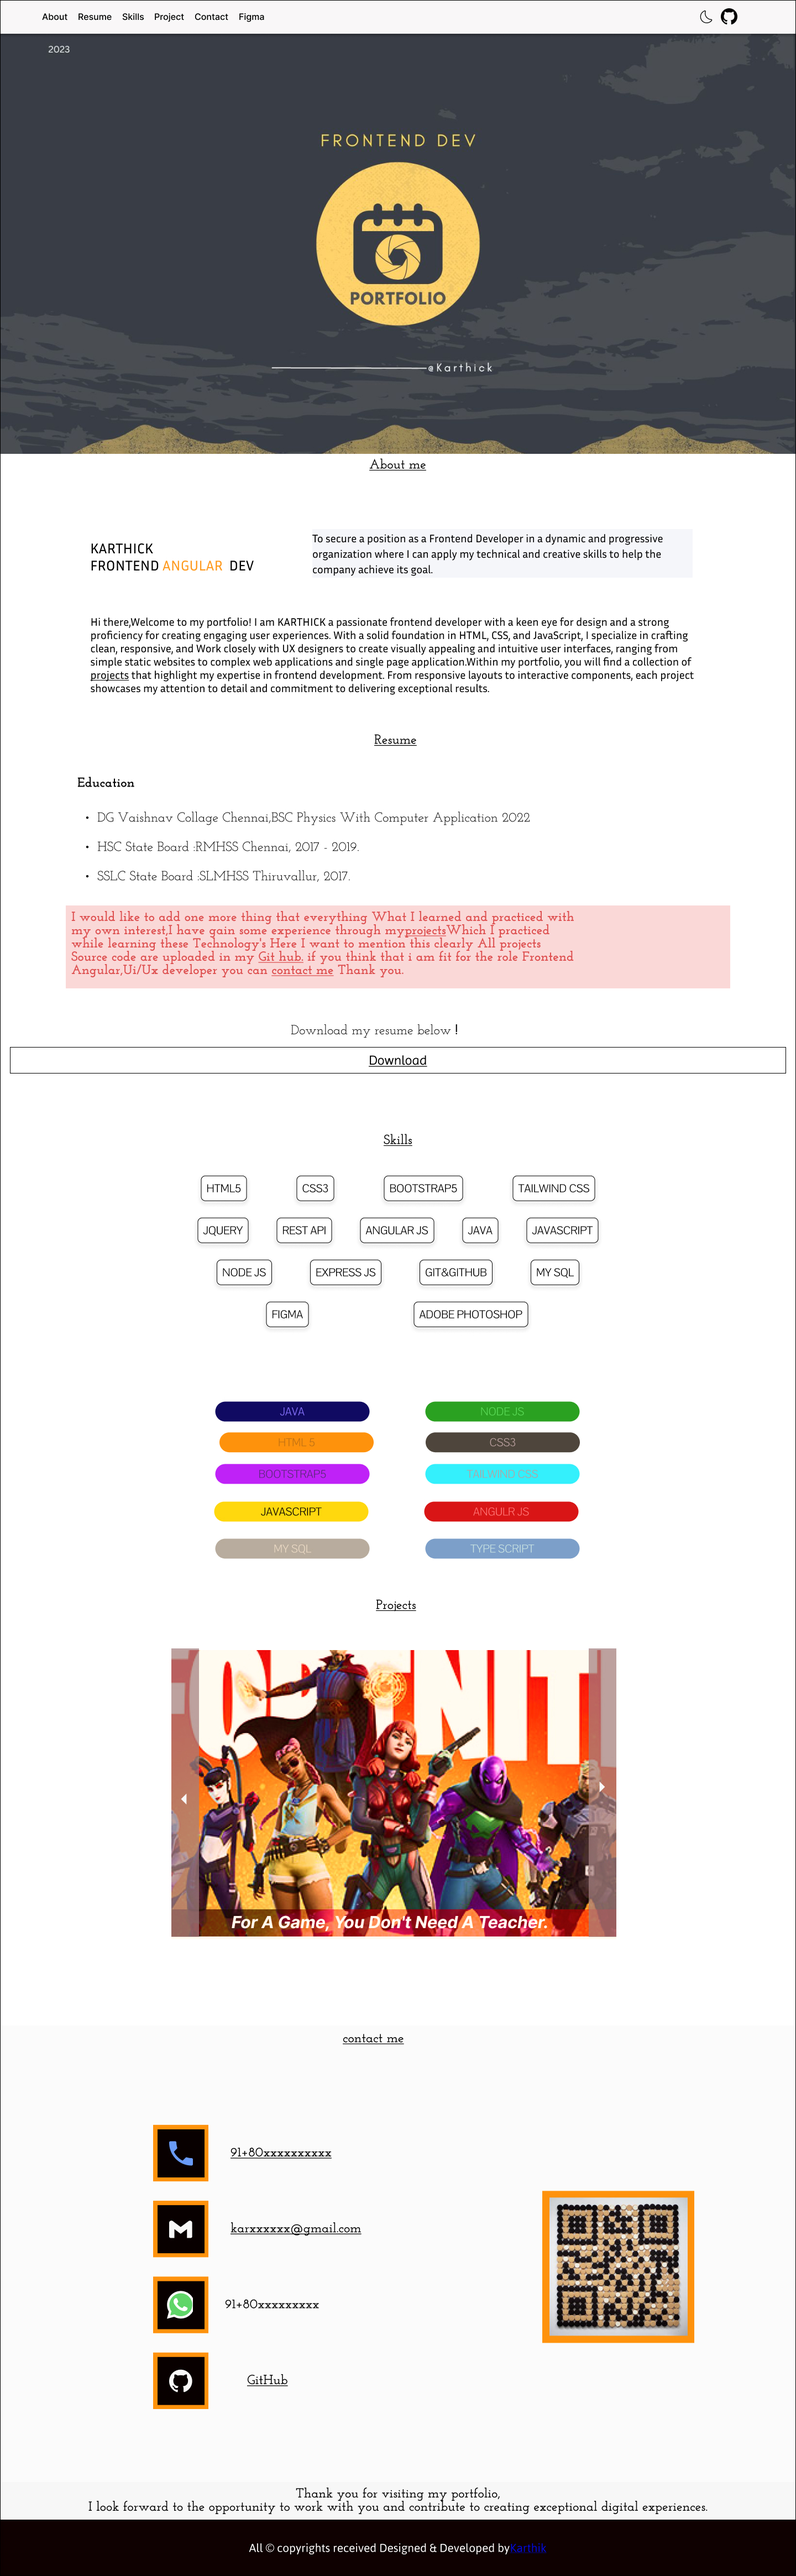
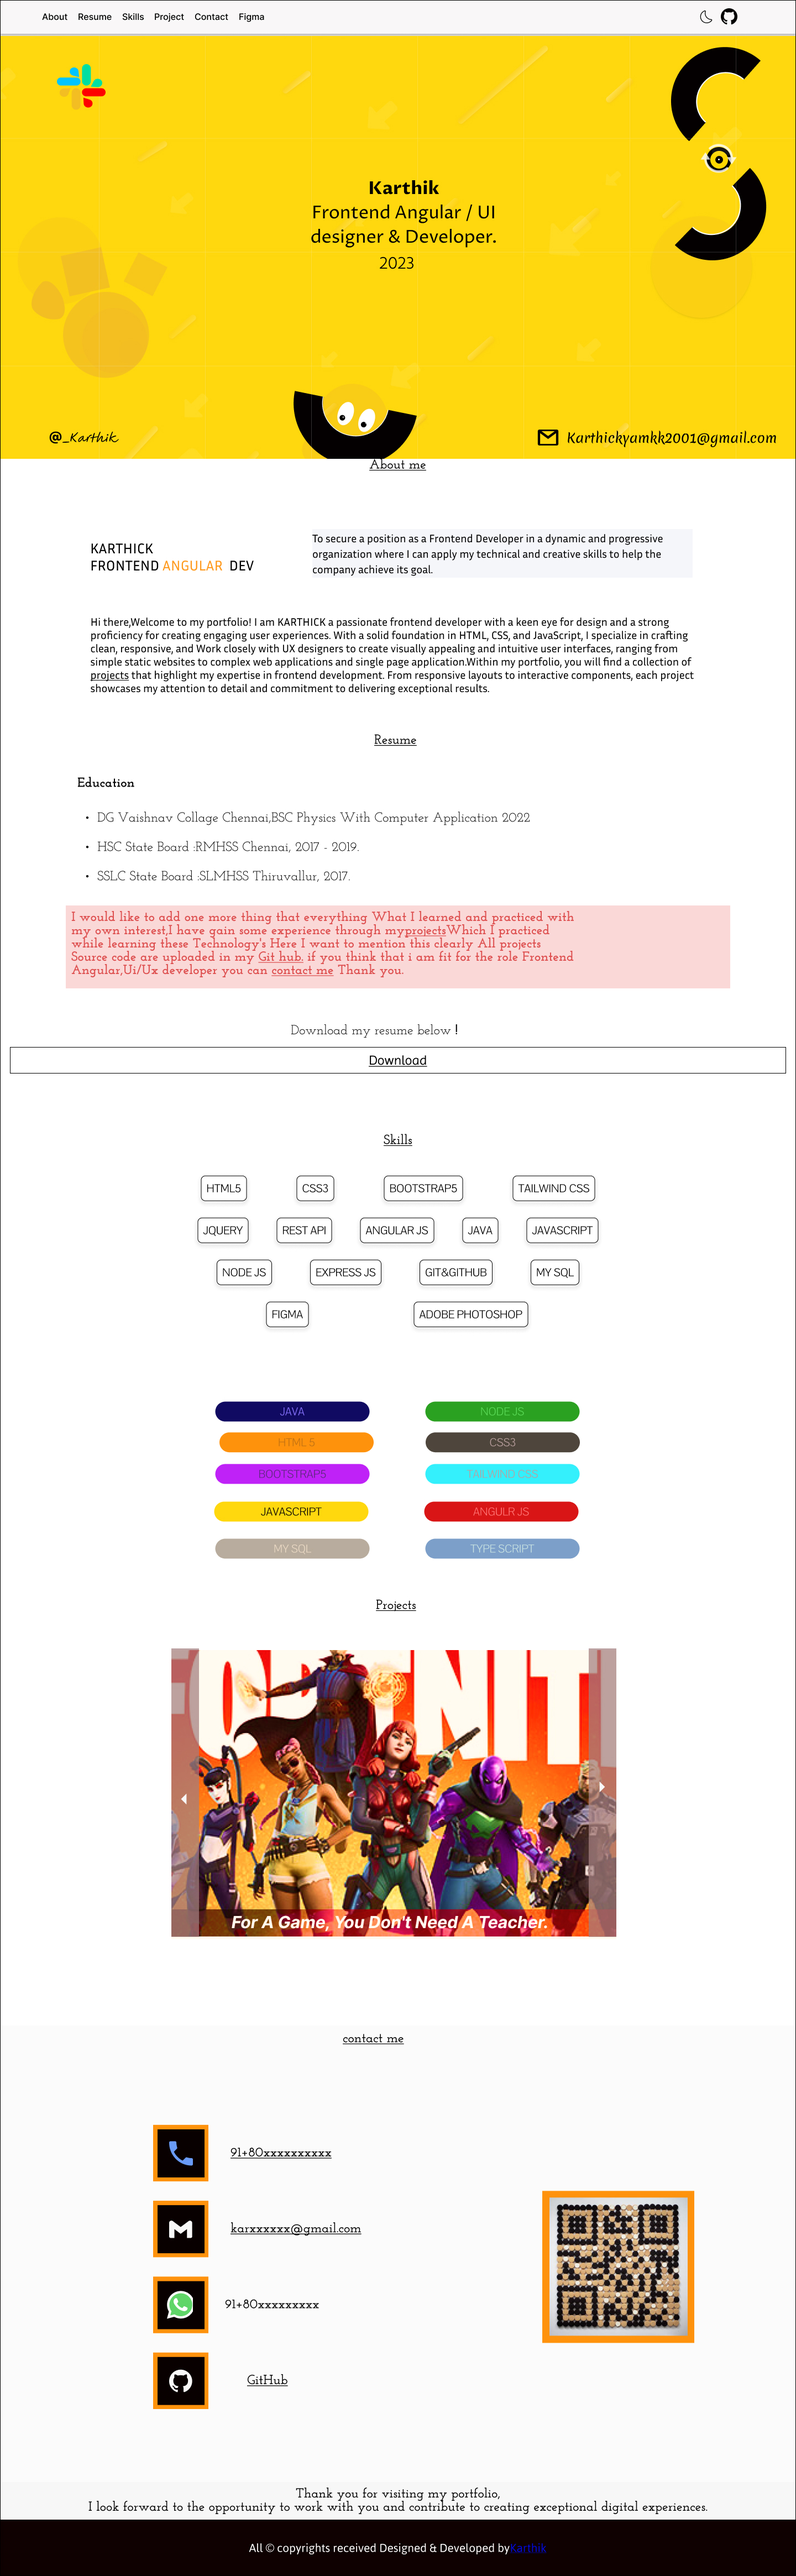
figma made cover page added for both small and large devices

Changed region(s): [[0.0, 0.0, 1.0, 0.1867]]

diff --git a/figma.html b/figma.html
@@ -84,9 +84,11 @@
             </div>
         </div>
     </header>
-    <section  class="container mx-auto 2xl:px-24  p-0">
-        <div class="bg-gradient-to-r from-violet-200 via-zinc-100 to-pink-100 rounded text-2xl font-semibold py-24 flex justify-center md:justify-around items-center gap-1  flex-wrap transition-all ease-in-out duration-300 hover:scale-[1.009]">
-            <p class="text-[#ff4500] text-center cursor-pointer font-bold w-full md:w-auto"><a href="index.html" class="text-black dark:text-white !font-medium">Home </a>&#8594; Figma</p>
+    <section class="container mx-auto 2xl:px-24  p-0">
+        <div
+            class="bg-gradient-to-r from-violet-200 via-zinc-100 to-pink-100 rounded text-2xl font-semibold py-24 flex justify-center md:justify-around items-center gap-1  flex-wrap transition-all ease-in-out duration-300 hover:scale-[1.009]">
+            <p class="text-[#ff4500] text-center cursor-pointer font-bold w-full md:w-auto"><a href="index.html"
+                    class="text-black dark:text-white !font-medium">Home </a>&#8594; Figma</p>
             <h1 class="text-4xl bg-gradient-to-r from-violet-300 to-pink-300  bg-clip-text text-transparent">FIGMA</h1>
         </div>
     </section>
@@ -96,18 +98,35 @@
             <h1 class="title"><span>F</span>IGMA</h1>
         </center>
         <center class="hidden lg:block">
-            <p class="bg-gradient-to-r from-rose-50 via-gray-100 to-fuchsia-50 text-black inline-block mb-2 p-2 rounded-md">This portfolio Ui/UserInterface is Designed with<b> FIGMA
+            <p
+                class="bg-gradient-to-r from-rose-50 via-gray-100 to-fuchsia-50 text-black inline-block mb-2 p-2 rounded-md">
+                This portfolio Ui/UserInterface is Designed with<b> FIGMA
                 </b>tool and all
                 the
                 image what used in this site made with FIGMA. <a class="text-blue-500">image preview</a></p>
         </center>
         <div id="figmaimg" class="px-2 py-2 rounded">
+
             <center class="text-2xl xl:text-5xl font-bold text-gray-200   py-8">Color Thems & Typography</center>
             <img src="img/portfoliocolourpallette.png" alt="figma preview"
                 class="rounded-md shadow-lg max-w-[800px] mx-auto w-full transition-all duration-300 ease-in-out hover:scale-[1.01]">
+            <!-- components image  -->
             <center class="text-2xl xl:text-5xl font-bold text-gray-200   py-8">Components</center>
             <img src="img/portfoliocomponents.png" alt="figma preview"
                 class="rounded-md shadow-lg max-w-[800px] mx-auto w-full transition-all duration-300 ease-in-out hover:scale-[1.01]">
+            <!-- Desktop cover page  -->
+            <center class="text-2xl xl:text-5xl font-bold text-gray-200 py-8 hidden md:block">Desktop Cover Page
+                <br>Figma design</center>
+            <a href="img/coverpage-larg1.png" target="_blank" class="hidden md:block"><img src="img/coverpage-larg1.png"
+                    alt="figma cover page"
+                    class="rounded-md shadow-lg max-w-[800px] mx-auto w-full transition-all duration-300 ease-in-out hover:scale-[1.01]"></a>
+            <!-- Small devices cover page  -->
+            <center class="text-2xl xl:text-5xl font-bold text-gray-200 py-8  md:hidden">mobile Cover Page
+                <br>Figma design</center>
+            <a href="img/coverpage-small1.png" target="_blank" class="md:hidden"><img src="img/coverpage-small1.png"
+                    alt="figma cover page"
+                    class="rounded-md shadow-lg max-w-[800px] mx-auto w-full h-full transition-all duration-300 ease-in-out hover:scale-[1.01]"></a>
+                <!-- desktop design  -->
             <center class="text-2xl xl:text-5xl font-bold text-gray-200   py-8">Desktop Design</center>
             <div class="lg:h-[600px] h-[450px] overflow-y-auto max-w-[800px] px-1 mx-auto">
                 <img src="img/Desktop - 1.jpg" alt="figma preview" class="rounded shadow-lg w-full">
@@ -116,7 +135,8 @@
     </section>
     <!-- footer -->
     <footer class="bg-black text-white p-4">
-        <p class="flex justify-end items-center hover:underline text-sm"><a href="#">Back To Top </a><span> &#8593;</span></p>
+        <p class="flex justify-end items-center hover:underline text-sm"><a href="#">Back To Top </a><span>
+                &#8593;</span></p>
         <p class="bg- text-center py-4">All &#xa9; copyrights received Designed & Developed by <a
                 href="https://github.com/Karthikjhonn" class="bg- text-blue-600 underline">Karthik</a>
         </p>

diff --git a/index.html b/index.html
@@ -106,8 +106,8 @@
         <div class=" rounded w-full h-full mx-auto !bg-[#383d45]">
             <!-- <img src="img/coverpagelarge.gif" alt="portfolio cover page" class="w-auto mx-auto h-full hidden md:block">
             <img src="img/coverpagesmall.gif" alt="portfolio cover page" class="w-auto mx-auto h-full md:hidden"> -->
-            <img src="img/coverpage-larg.png" alt="portfolio cover page" class="w-full mx-auto h-full hidden md:block">
-            <img src="img/coverpage-small.png" alt="portfolio cover page" class="w-full mx-auto h-full md:hidden">
+            <img src="img/coverpage-larg1.png" alt="portfolio cover page" class="w-full mx-auto h-full hidden md:block">
+            <img src="img/coverpage-small1.png" alt="portfolio cover page" class="w-full mx-auto h-full md:hidden">
         </div>
     </section>
     <!-- about -->
@@ -135,7 +135,7 @@
             websites to complex web applications and single page application.Within my portfolio, you will
             find a collection of <a href="#services" class="text-blue-600 underline">projects</a> that highlight my
             expertise in frontend development. From responsive layouts to interactive components, each project
-            showcases my attention to detail and commitment to delivering exceptional results.<br>Proficiency in<b class="rounded-[2px] mx-1 bg-red-300 text-red-600"> ANGULAR </b>that involved developing dynamic web SPA applications using Angular. I am well-versed in Angular concepts, such as components, modules, services, and routing, reactive module form, directives, HTTP client & observables<mark>.</mark>
+            showcases my attention to detail and commitment to delivering exceptional results.<br>Proficiency in<b class="rounded-[2px] mx-1 bg-red-50 text-red-500"> ANGULAR </b>that involved developing dynamic web SPA applications using Angular. I am well-versed in Angular concepts, such as components, modules, services, and routing, reactive module form, directives, HTTP client & observables<mark>.</mark>
         </p>
     </section>
     <!-- sticky bar -->
